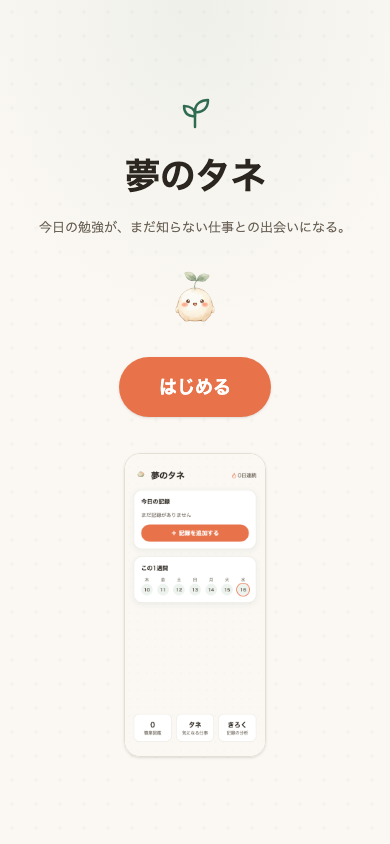
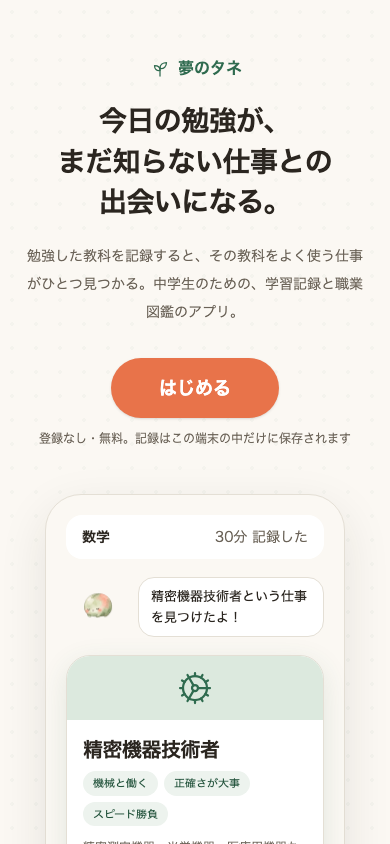
LPのファーストビューを「仕事が見つかる瞬間」を見せる形に作り直す
空のホーム画面のスクショをやめ、数学を記録→タネが話す→職業カードの流れを
発見画面と同じ部品で描く。説明文と「登録なし・無料」の一言を足し、
背景のグラデーションと重複していたタネのモチーフを整理した。
READMEのLPスクリーンショットも撮り直し。

diff --git a/web/src/components/LandingPage.tsx b/web/src/components/LandingPage.tsx
@@ -3,7 +3,9 @@ import { ArrowDown, ArrowRight, BookMarked, BookOpen, Search } from "lucide-reac
 import screenshotDiscovery from "../assets/lp/screenshot_discovery.png"
 import screenshotHome from "../assets/lp/screenshot_home.png"
 import screenshotZukan from "../assets/lp/screenshot_zukan.png"
+import { iconForTags } from "../tagIcons"
 import { SproutIcon } from "./SproutIcon"
+import { TaneCharacter } from "./TaneCharacter"
 
 interface Props {
   onStart: () => void
@@ -31,71 +33,55 @@ const viewport = { once: true, amount: 0.25 } as const
 export function LandingPage({ onStart }: Props) {
   return (
     <div className="text-charcoal">
-      {/* 1. ファーストビュー — PC(lg, 1024px+)は左右2カラム、モバイルは縦積み */}
-      <section
-        className="relative flex min-h-screen flex-col items-center justify-center gap-5 overflow-hidden px-6 py-14 text-center lg:h-screen lg:min-h-0 lg:px-12 lg:py-0 lg:text-left"
-        style={{
-          backgroundImage:
-            "radial-gradient(ellipse 90% 55% at 50% 0%, rgba(47,107,79,0.06), transparent 70%)",
-        }}
-      >
-        {/* PC版のみ: 左から右へ薄いセージ色にグラデーションし、境界線を作らずに
-            明るいモック画像を浮き上がらせる */}
-        <div
-          aria-hidden="true"
-          className="pointer-events-none absolute inset-0 hidden lg:block"
-          style={{
-            backgroundImage:
-              "linear-gradient(to right, rgba(47,107,79,0) 0%, rgba(47,107,79,0.08) 30%, rgba(47,107,79,0.08) 100%)",
-          }}
-        />
-
+      {/* 1. ファーストビュー — PC(lg, 1024px+)は左右2カラム、モバイルは縦積み。
+          右（モバイルでは下）には、ホーム画面のスクショではなく「記録すると仕事が
+          見つかる」瞬間そのものを、本物の発見画面と同じ部品で見せる */}
+      <section className="flex min-h-screen items-center px-6 py-14 lg:h-screen lg:min-h-0 lg:px-12 lg:py-0">
         <motion.div
           variants={stagger(0.12)}
           initial="hidden"
           animate="show"
-          className="relative z-10 flex w-full max-w-6xl flex-col items-center gap-5 lg:flex-row lg:items-center lg:justify-center lg:gap-16"
+          className="mx-auto flex w-full max-w-5xl flex-col items-center gap-12 lg:flex-row lg:justify-between lg:gap-16"
         >
-          <div className="flex flex-col items-center justify-center gap-5 lg:w-2/5 lg:items-start lg:self-stretch">
-            <motion.div variants={fadeUp}>
-              <SproutIcon className="h-12 w-12 text-sage-600" />
-            </motion.div>
-            <motion.h1 variants={fadeUp} className="text-4xl font-bold tracking-[-0.02em] lg:text-5xl">
+          <div className="flex flex-col items-center text-center lg:max-w-xl lg:items-start lg:text-left">
+            <motion.p
+              variants={fadeUp}
+              className="flex items-center gap-1.5 text-base font-bold text-sage-600 lg:text-lg"
+            >
+              <SproutIcon className="h-6 w-6" />
               夢のタネ
+            </motion.p>
+            <motion.h1
+              variants={fadeUp}
+              className="mt-5 text-[28px] font-bold leading-[1.45] tracking-[-0.02em] lg:text-[44px]"
+            >
+              今日の勉強が、
+              <br />
+              まだ知らない仕事との
+              <br />
+              出会いになる。
             </motion.h1>
             <motion.p
               variants={fadeUp}
-              className="whitespace-nowrap text-[13px] leading-loose text-charcoal-muted lg:text-xl"
+              className="mt-5 max-w-md text-sm leading-loose text-charcoal-muted lg:text-base"
             >
-              今日の勉強が、まだ知らない仕事との出会いになる。
+              勉強した教科を記録すると、その教科をよく使う仕事がひとつ見つかる。中学生のための、学習記録と職業図鑑のアプリ。
             </motion.p>
-            <motion.div
-              variants={fadeUp}
-              className="mt-1 flex flex-col items-center gap-3 lg:flex-row lg:gap-4"
-            >
-              <FloatingTane
-                src="/images/tane/stage1.png"
-                alt="双葉が出たタネのキャラクター"
-                size={80}
-                sizeClassName="h-20 w-20 lg:h-32 lg:w-32"
-              />
+            <motion.div variants={fadeUp} className="mt-8 flex flex-col items-center gap-3 lg:items-start">
               <button
                 type="button"
                 onClick={onStart}
-                className="rounded-full bg-coral-500 px-10 py-4 text-lg font-bold text-white shadow-sm transition active:bg-coral-600"
+                className="rounded-full bg-coral-500 px-12 py-4 text-lg font-bold text-white shadow-sm transition active:bg-coral-600"
               >
                 はじめる
               </button>
+              <p className="text-xs text-charcoal-muted">登録なし・無料。記録はこの端末の中だけに保存されます</p>
             </motion.div>
           </div>
 
-          {/* PC: 右カラムに大きく、モバイル: ボタンの下に小さめに */}
-          <motion.img
-            variants={fadeUp}
-            src={screenshotHome}
-            alt="アプリのホーム画面。今日勉強した教科を選ぶ画面"
-            className="mt-4 max-h-[36vh] w-auto rounded-2xl border border-border-soft object-contain shadow-sm lg:mt-0 lg:max-h-[78vh] lg:w-3/5"
-          />
+          <motion.div variants={fadeUp}>
+            <DiscoveryDemo />
+          </motion.div>
         </motion.div>
       </section>
 
@@ -359,6 +345,65 @@ export function LandingPage({ onStart }: Props) {
           はじめる
         </motion.button>
       </motion.section>
+    </div>
+  )
+}
+
+// ファーストビューで見せる発見の例。jobs.json（約15KB）をLPで読み込まないよう、
+// 数学の候補プールにある「知らない」ラベルの職業を1件だけ書き写している。
+const DEMO_JOB = {
+  name: "精密機器技術者",
+  tags: ["機械と働く", "正確さが大事", "スピード勝負"],
+  description:
+    "精密測定機器、光学機器、医療用機器など高い精度が要求される機械の研究開発、設計、及び製造工程の技術開発、管理を行う。",
+}
+const DemoIcon = iconForTags(DEMO_JOB.tags)
+
+/** 「数学を記録 → 仕事が見つかる」の一連を、発見画面と同じ見た目で縮小して見せる。 */
+function DiscoveryDemo() {
+  const step = (delay: number) => ({
+    initial: { opacity: 0, y: 12 },
+    animate: { opacity: 1, y: 0 },
+    transition: { duration: 0.4, delay, ease: "easeOut" as const },
+  })
+
+  return (
+    <div
+      aria-label="使い方の例：数学を30分記録すると、精密機器技術者という仕事が見つかる"
+      className="w-[300px] rounded-[2.25rem] border border-border-soft bg-cream p-5 shadow-[0_16px_48px_rgba(43,38,32,0.10)] lg:w-[340px]"
+    >
+      <motion.div {...step(0.5)} className="flex items-center justify-between rounded-2xl bg-white px-4 py-3 text-sm">
+        <span className="font-bold">数学</span>
+        <span className="text-charcoal-muted">30分 記録した</span>
+      </motion.div>
+
+      <motion.div {...step(1.0)} className="mt-4 flex items-center gap-2">
+        <TaneCharacter count={1} size={64} />
+        <p className="relative flex-1 rounded-2xl border border-border-soft bg-white px-3 py-2 text-[13px] font-medium leading-relaxed">
+          {DEMO_JOB.name}という仕事を見つけたよ！
+        </p>
+      </motion.div>
+
+      <motion.div
+        {...step(1.4)}
+        className="mt-4 overflow-hidden rounded-3xl border border-border-soft bg-white shadow-[0_8px_28px_rgba(47,107,79,0.12)]"
+      >
+        <div className="flex h-16 items-center justify-center bg-sage-100">
+          <DemoIcon className="h-9 w-9 text-sage-600" strokeWidth={1.5} />
+        </div>
+        <div className="px-4 pt-4 pb-5 text-left">
+          <h3 className="text-xl font-bold leading-snug tracking-tight">{DEMO_JOB.name}</h3>
+          <div className="mt-2 flex flex-wrap gap-1.5">
+            {DEMO_JOB.tags.map((tag) => (
+              <span key={tag} className="rounded-full bg-sage-50 px-2.5 py-1 text-[11px] font-medium text-sage-700">
+                {tag}
+              </span>
+            ))}
+          </div>
+          <p className="mt-3 text-xs leading-relaxed text-charcoal-muted">{DEMO_JOB.description}</p>
+          <p className="mt-3 text-[11px] font-medium text-sage-600">図鑑に登録したよ</p>
+        </div>
+      </motion.div>
     </div>
   )
 }
